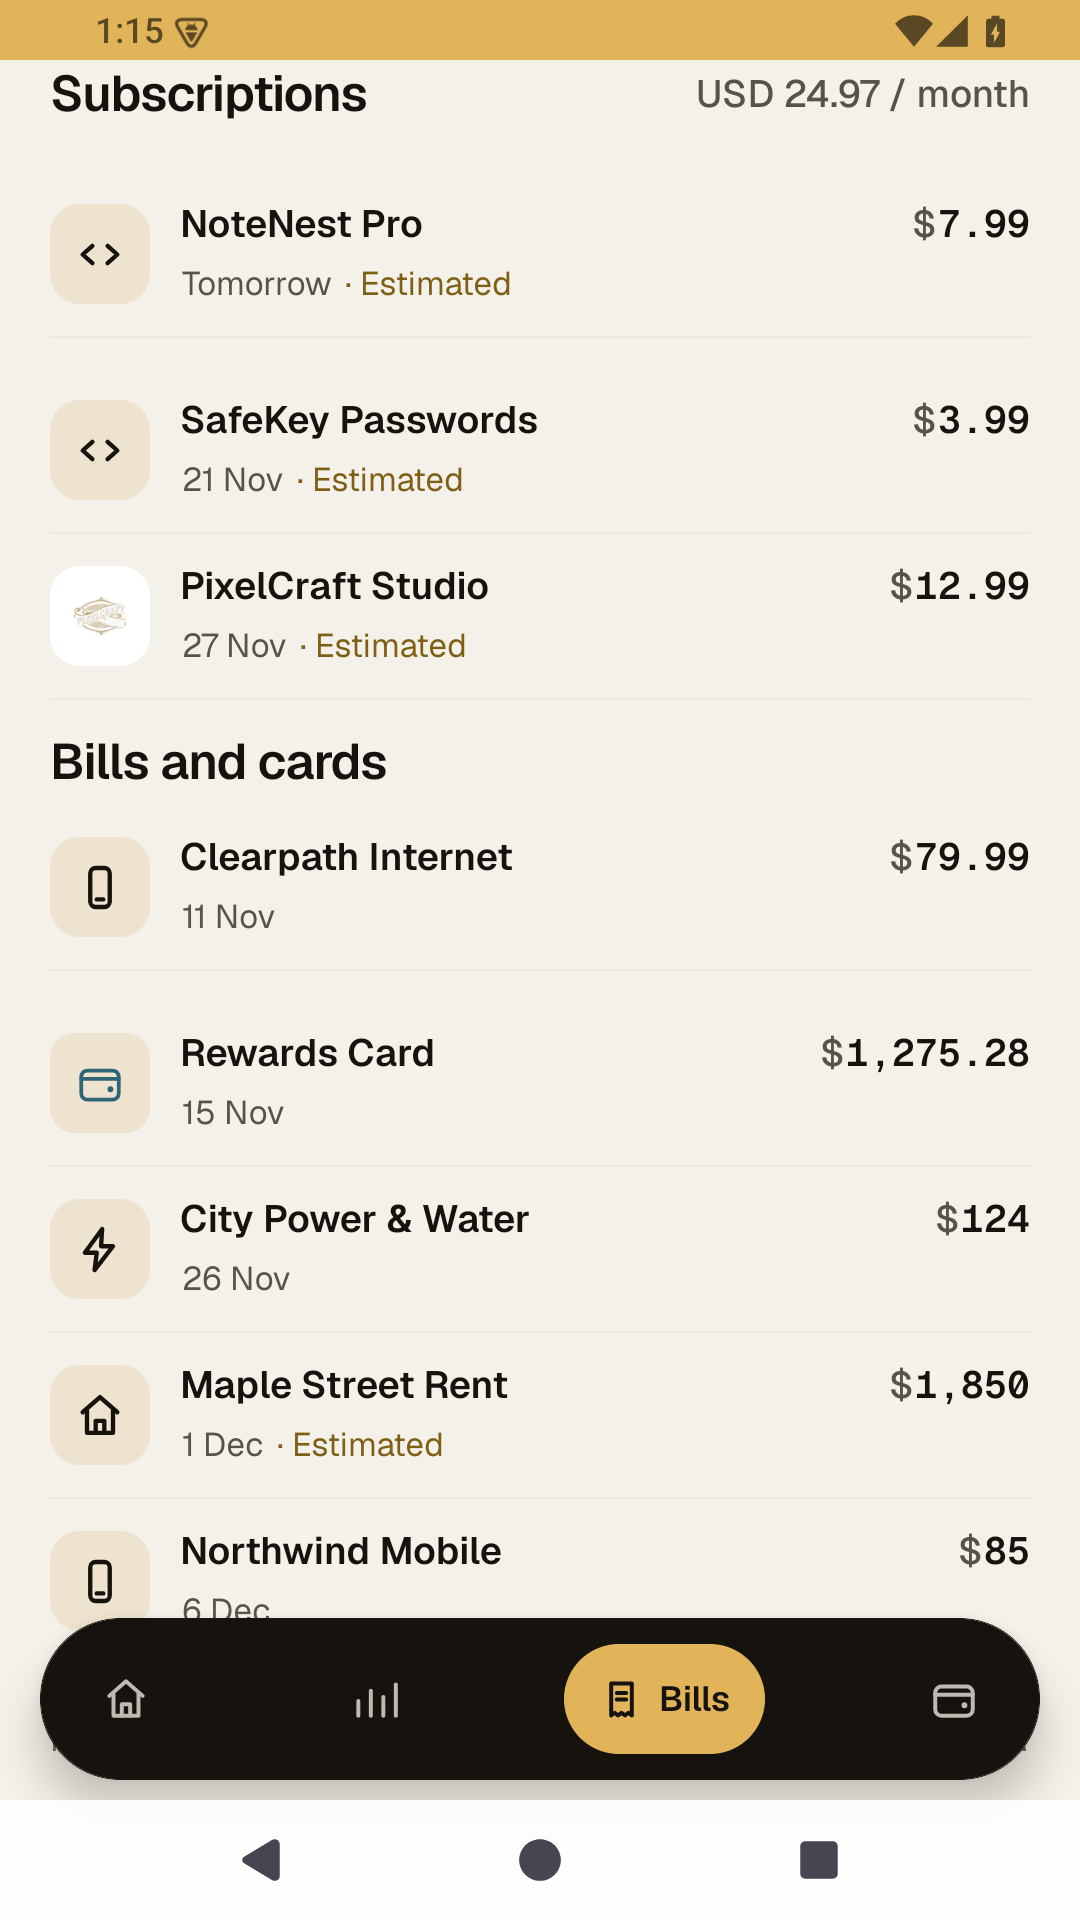
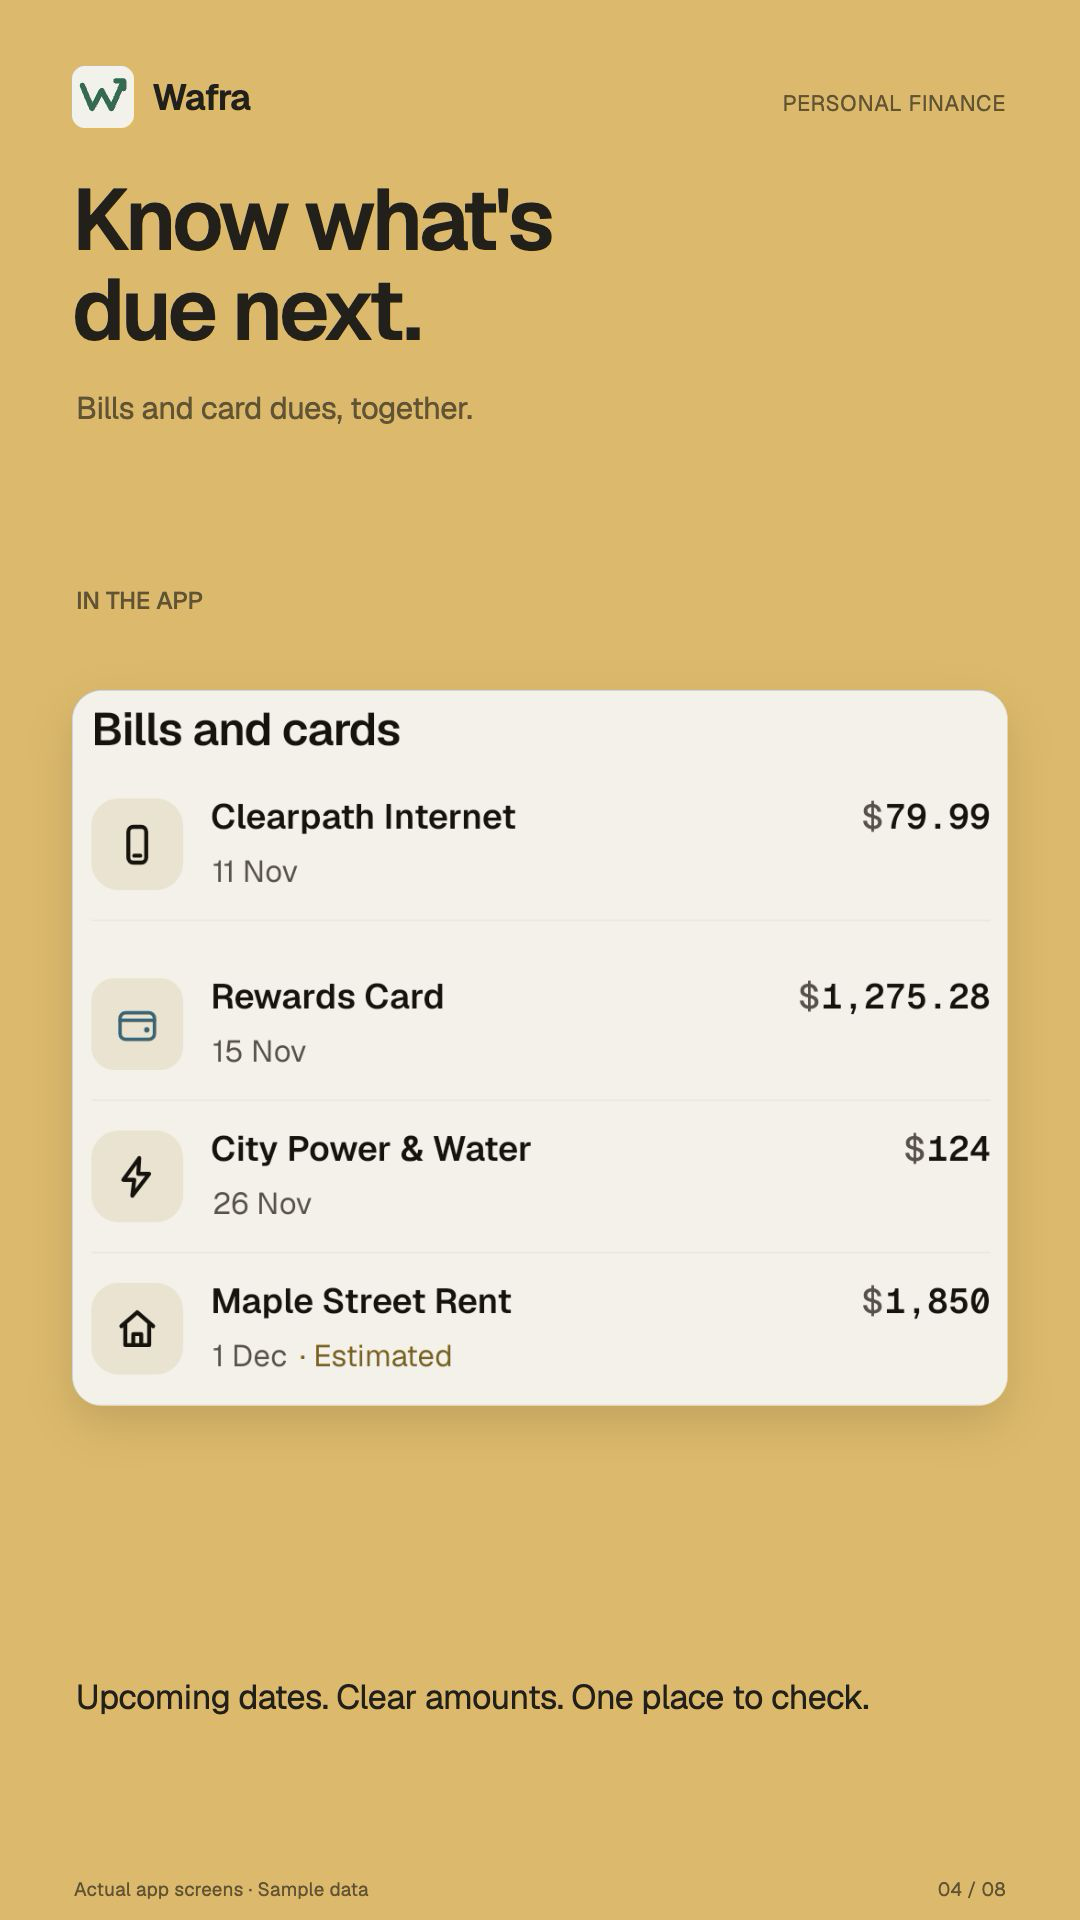
Polish Wafra Google Play launch copy and screenshots (#172)
* Polish Google Play launch copy and screenshot presentation

* Keep landing renewal claim within supported coverage

---------

diff --git a/docs/store-assets/play/presentation/index.html b/docs/store-assets/play/presentation/index.html
@@ -1,0 +1,12 @@
+<!doctype html><html lang="en"><head><meta charset="utf-8"><meta name="viewport" content="width=device-width,initial-scale=1"><title>Wafra store presentation</title><style>
+@font-face{font-family:Geist;src:url('../../../../public/fonts/Geist-Regular.ttf');font-weight:400}@font-face{font-family:Geist;src:url('../../../../public/fonts/Geist-Medium.ttf');font-weight:500}@font-face{font-family:Geist;src:url('../../../../public/fonts/Geist-SemiBold.ttf');font-weight:600}
+*{box-sizing:border-box}html,body{margin:0;width:1080px;height:1920px;overflow:hidden;background:#f5f1e7;font-family:Geist,sans-serif}.stage{width:1080px;height:1920px;position:relative;overflow:hidden;--bg:#f4f0e7;--fg:#191b17;--muted:#62645e;background:var(--bg);color:var(--fg)}.ink{--bg:#14251e;--fg:#fcf8ef;--muted:#bbcbc2}.indigo{--bg:#252c55;--fg:#fcf8ef;--muted:#c6cce4}.ochre{--bg:#e3b75e;--fg:#24201a;--muted:#65522f}.slate{--bg:#285665;--fg:#fcf8ef;--muted:#c0d0d3}.brand{position:absolute;top:66px;left:72px;display:flex;align-items:center;gap:18px;font-size:36px;font-weight:600;letter-spacing:-1px}.brand img{width:62px;height:62px}.category{position:absolute;top:89px;right:74px;color:var(--muted);font-size:22px;letter-spacing:.6px}.heading{position:absolute;left:72px;top:175px;margin:0;font-size:86px;line-height:1.04;letter-spacing:-3.4px;font-weight:600;max-width:945px}.sub{position:absolute;left:76px;top:387px;width:900px;font-size:31px;line-height:1.35;color:var(--muted);margin:0;letter-spacing:-.4px}.device{position:absolute;top:510px;left:110px;width:860px;height:1370px;overflow:hidden;border:2px solid rgba(0,0,0,.14);border-radius:34px;box-shadow:0 22px 45px rgba(0,0,0,.14);background:#f5f1e7}.device img{position:absolute;left:0;top:-47.78px;width:860px;height:1528.89px}.footer{position:absolute;left:74px;right:74px;bottom:19px;display:flex;justify-content:space-between;font-size:19px;color:var(--muted);letter-spacing:.2px}.focus{position:absolute;left:72px;top:690px;width:936px;overflow:hidden;border-radius:30px;box-shadow:0 18px 44px rgba(0,0,0,.12);border:1px solid rgba(0,0,0,.12);background:#f5f1e7}.focus img{position:absolute;max-width:none}.focus-label{position:absolute;top:585px;left:76px;font-size:24px;font-weight:500;color:var(--muted)}.note{position:absolute;left:76px;right:76px;bottom:165px;font-size:34px;line-height:1.4;letter-spacing:-.5px;max-width:820px}.privacy .focus{left:72px;width:936px;top:640px;height:225px}.privacy .focus.second{top:980px;height:185px}.privacy .focus img{width:991.06px;left:-26.02px;top:-954.35px}.privacy .focus.second img{top:-1303.04px}.privacy .fact{position:absolute;left:76px;top:1210px;font-size:42px;line-height:1.8;letter-spacing:-1px}.fact span{display:block}.fact span:before{content:'✓';color:#1f6b52;margin-right:22px;font-weight:600}.feature{width:1024px;height:500px;background:#14251e;color:#fcf8ef}.feature .brand{left:54px;top:44px;font-size:34px;gap:14px}.feature .brand img{width:54px;height:54px}.feature .heading{left:54px;top:144px;max-width:620px;font-size:55px;line-height:1.1;letter-spacing:-2px}.feature .sub{left:56px;top:294px;width:580px;font-size:23px;line-height:1.4;color:#c6d1ca}.feature .pill{position:absolute;left:56px;top:390px;font-size:17px;letter-spacing:.4px;border-top:1px solid #547665;padding-top:18px;width:540px;color:#b9cfbf}.feature .device{top:37px;left:723px;width:252px;height:448px;border-radius:18px;box-shadow:0 18px 30px #0004;border:2px solid #668776}.feature .device img{width:252px;height:448px;top:0}
+</style></head><body><main class="stage" id="stage"></main><script>
+(async()=>{const q=new URLSearchParams(location.search),f=q.get('frame')||'01-home',stage=document.querySelector('#stage');const img=(file)=>'../native-source/'+file;const logo='../../../../public/wafra-icon.svg';
+if(f==='feature'){document.documentElement.style.cssText='width:1024px;height:500px';document.body.style.cssText='width:1024px;height:500px';stage.className='stage feature';stage.innerHTML=`<div class="brand"><img src="${logo}">Wafra</div><h1 class="heading">Know where it goes.<br>Plan what comes next.</h1><p class="sub">A clear view of spending, budgets and bills.<br>No bank login needed.</p><div class="pill">PRIVATE EXPENSE TRACKING</div><div class="device"><img src="${img('01-home.png')}"></div>`;}
+else{const frames=await(await fetch('./frames.json')).json(),p=frames.find(x=>x.id===f);if(!p)throw Error('Unknown frame');stage.className='stage '+p.theme+(p.kind==='privacy'?' privacy':'');stage.innerHTML=`<div class="brand"><img src="${logo}">Wafra</div><div class="category">PERSONAL FINANCE</div><h1 class="heading">${p.headline.join('<br>')}</h1><p class="sub">${p.sub}</p><div class="footer"><span>Actual app screens · Sample data</span><span>${String(frames.indexOf(p)+1).padStart(2,'0')} / 08</span></div>`;
+if(p.kind==='full')stage.innerHTML+=`<div class="device"><img src="${img(p.source)}"></div>`;
+else if(p.kind==='focus'){let[x,y,w,h]=p.focus,s=936/w;stage.innerHTML+=`<div class="focus-label">IN THE APP</div><div class="focus" style="height:${h*s}px"><img src="${img(p.source)}" style="width:${1080*s}px;left:${-x*s}px;top:${-y*s}px"></div><p class="note">${p.id.startsWith('02')?'You choose the access. Support varies by bank and message format.':p.id.startsWith('04')?'Upcoming dates. Clear amounts. One place to check.':'A little context makes a budget easier to follow.'}</p>`;}
+else{stage.innerHTML+=`<div class="focus"><img src="${img(p.source)}"></div><div class="focus second"><img src="${img(p.source)}"></div><div class="fact"><span>Optional app lock</span><span>No bank login</span><span>Exports you control</span></div>`;}}
+await document.fonts.ready;await Promise.all([...document.images].map(x=>x.decode()));document.body.dataset.ready='true';})().catch(e=>{document.body.dataset.error=e.message;throw e});
+</script></body></html>

diff --git a/scripts/test/store-package.test.js b/scripts/test/store-package.test.js
@@ -59,7 +59,9 @@ const ok = (name, condition, detail = '') => {
     ok('generated Apple metadata preserves the reviewed listing name',
       appleName === 'Wafra: Budget & Money Tracker', appleName);
     ok('generated Google metadata preserves the global English listing copy',
-      googleEnglish.includes('privately'), googleEnglish);
+      googleEnglish === JSON.parse(fs.readFileSync(
+        path.join(root, 'docs/store-metadata.json'), 'utf8',
+      )).googlePlay.listings['global-en'].shortDescription, googleEnglish);
     ok('generated asc app-info metadata preserves the reviewed listing identity',
       ascAppInfo.name === 'Wafra: Budget & Money Tracker' && Boolean(ascAppInfo.subtitle));
     ok('generated asc version metadata preserves the global English copy',

diff --git a/src/marketing/home.web.tsx b/src/marketing/home.web.tsx
@@ -243,7 +243,7 @@ export default function MarketingHome() {
         <section className={styles.radar} id="subscriptions" aria-labelledby="radar-title">
           <div className={styles.radarIntro}>
             <p className={styles.kicker}>Subscriptions and bills</p>
-            <h2 id="radar-title">See every renewal before it lands.</h2>
+            <h2 id="radar-title">Keep renewals in view.</h2>
             <p>
               Wafra spots charges that repeat, learns their rhythm and shows when the next one is due. Price rises and
               services that have gone quiet are flagged.

diff --git a/docs/store-assets/play/presentation/README.md b/docs/store-assets/play/presentation/README.md
@@ -1,0 +1,9 @@
+# Google Play launch presentation
+
+The eight English launch artboards use real Android captures with synthetic ledger data. `../native-source/` preserves the original pixels from builds 380/382; these are not claimed as new build 392 captures. `frames.json` defines the final order, captions and clearly framed detail crops. Native UI was not redrawn or changed.
+
+Serve the repository root over localhost, open `index.html?frame=01-home` through `08-privacy-settings` using the IDs in `frames.json`, and capture the rendered page at exactly 1080 × 1920 after fonts and images load. `index.html?frame=feature` uses 1024 × 500. The page exposes `body[data-ready="true"]` when ready. A browser JPEG capture was converted to opaque RGB PNG with `sips`; the conversion does not retouch content. Final output hashes and source hashes are in `PROVENANCE.json`.
+
+The final images are `../global-en/` and `../global-en-feature-graphic.png`. The existing app icon remains unchanged. English is the active launch locale; Arabic source drafts do not establish an uploaded localized listing. The new presentation assets were declared as AI-assisted in Play Console because their marketing copy and layout were produced with assistance; embedded native UI remains actual app UI.
+
+Verify with `npm run check:store`, `npm run check:store-assets`, `npm run check:store-pricing`, and `node --test scripts/test/store-package.test.js scripts/test/store-pricing.test.js`. These checks validate packaging and source facts; they do not establish Google approval, publication, or real purchase behavior.
